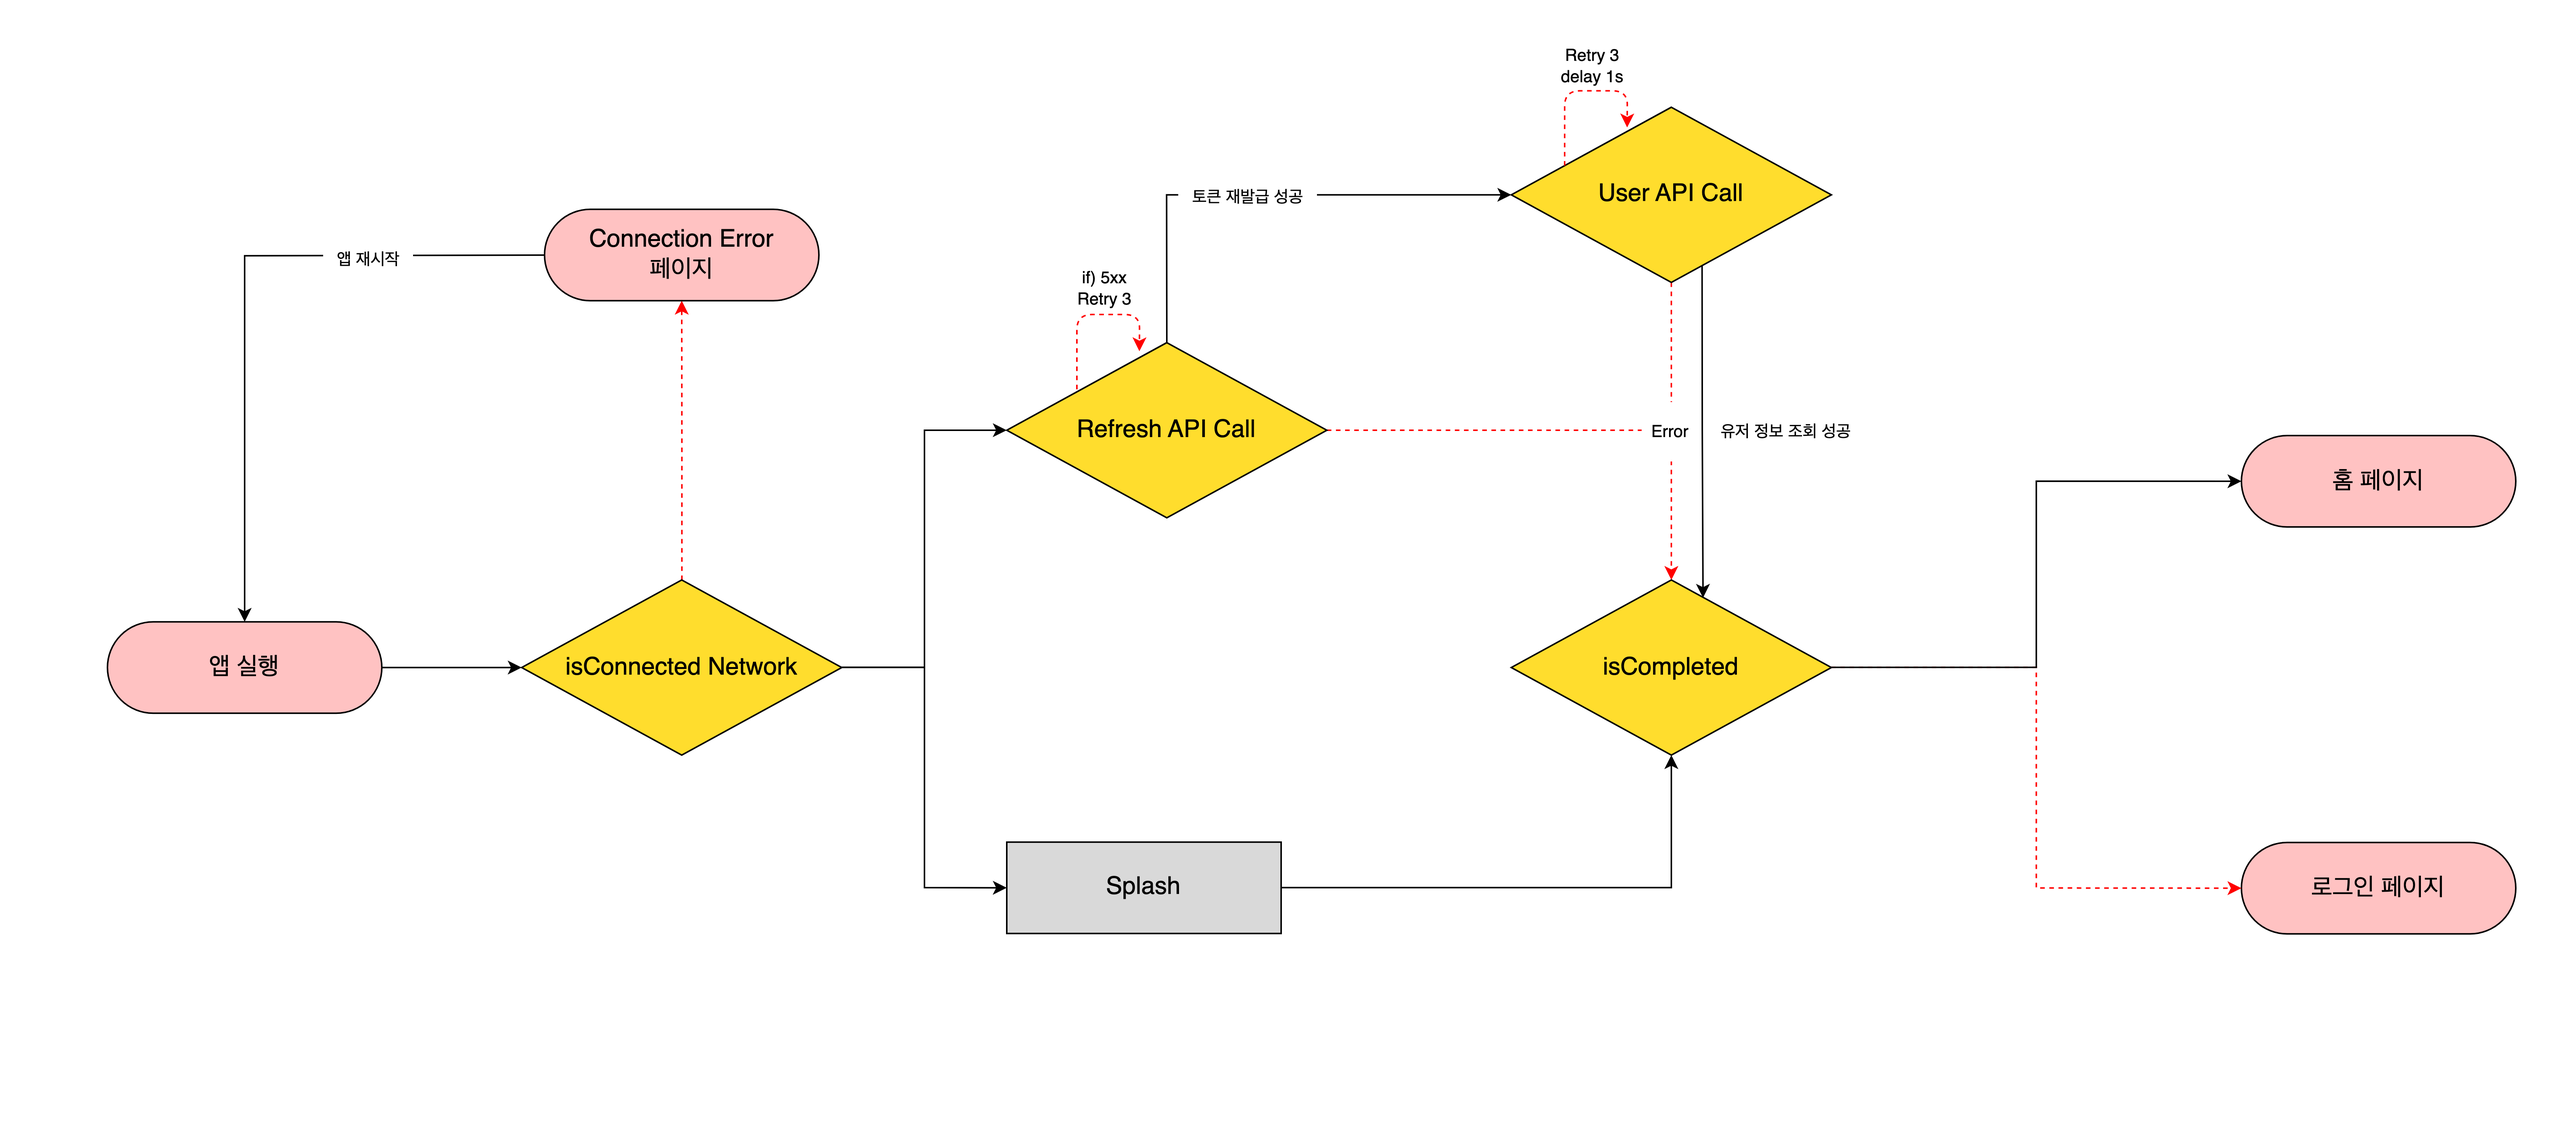
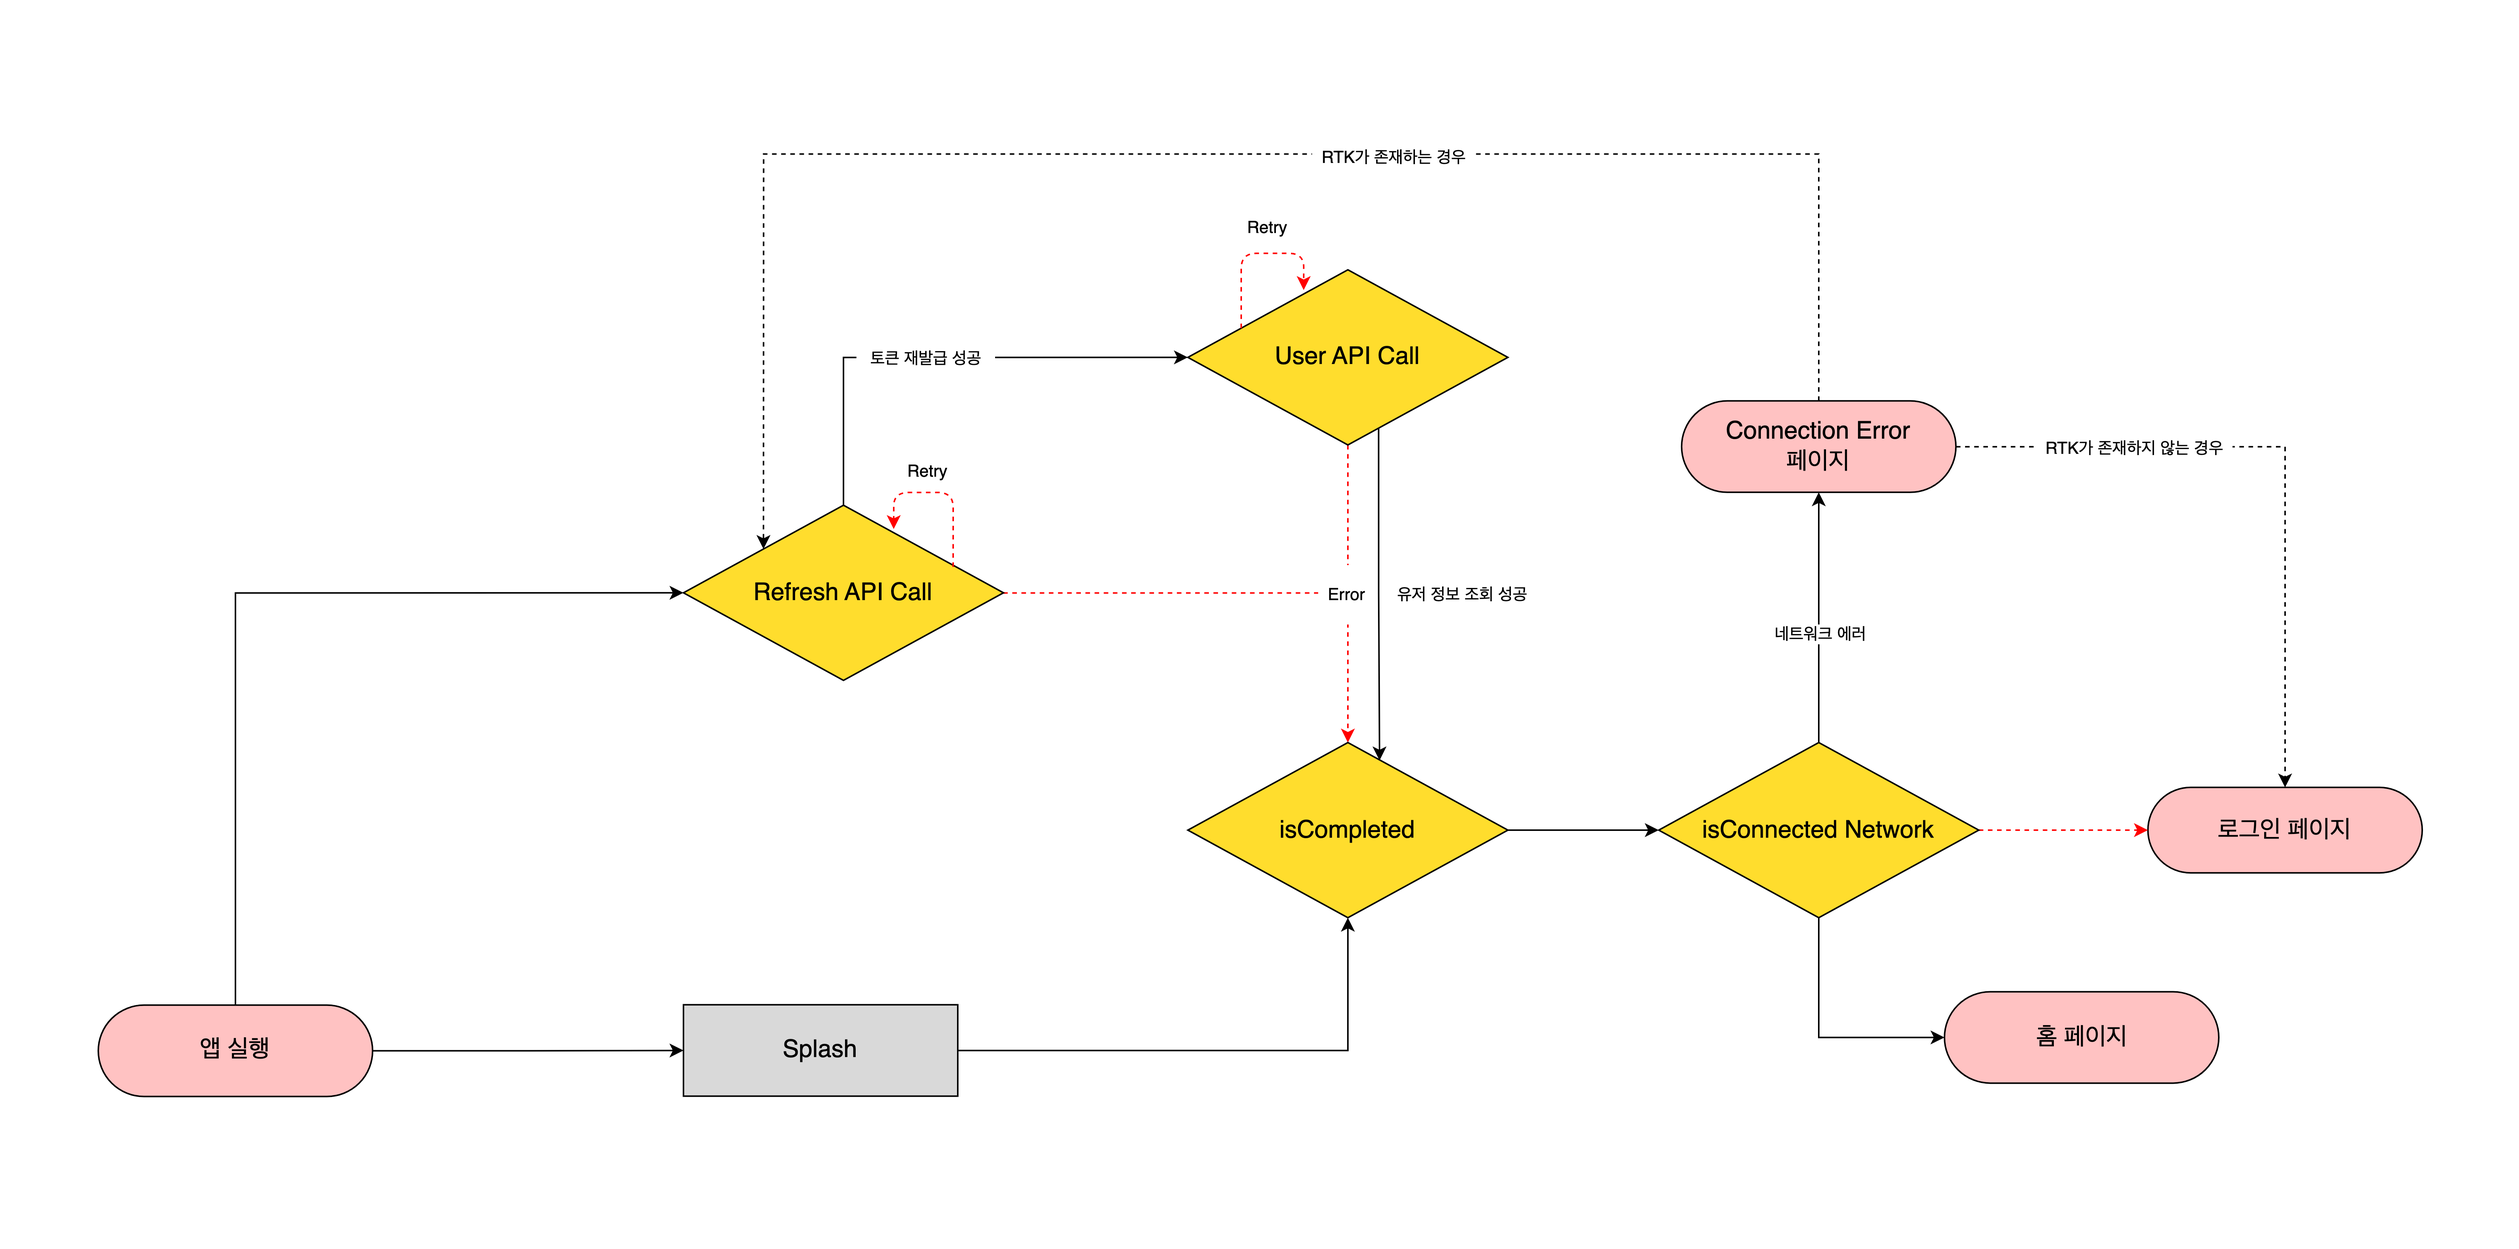
docs: 대안 4 수정

diff --git a/_posts/2025-03-02-handling-network-error-in-splash.md b/_posts/2025-03-02-handling-network-error-in-splash.md
@@ -51,7 +51,7 @@ _기존 플로우_
 1. API 요청 전 네트워크 상태 확인
 2. Queue를 활용한 요청 재시도(Retry)
 3. Retry와 ErrorBoundary를 조합하여 유연하게 처리하기
-4. Network Check and Retry
+4. 점진적 Retry 후 네트워크 상태 확인
 
 이제 각 방법을 하나씩 자세히 살펴보겠습니다.
 
@@ -105,27 +105,20 @@ _세 번째 대안_
 
 이러한 이유로, 로그인 플로우에서 안정성을 보장하기 어렵다고 판단했습니다.
 
-### 3-4. 네트워크 확인 후, Retry를 적용하는 방식
+### 3-4. 점진적 Retry 후 네트워크 상태 확인
 
-마지막 대안은 1번 대안과 3번 대안을 합친 방식입니다.
+마지막 대안은 1번 대안과 3번 대안의 아이디어를 합친 방식입니다.
 
 ![App flow 대안 4](assets/img/writing/15/app_flow_alternative4.png){: width="720" }
-_세 번째 대안_
+_네 번째 대안_
 
-이 방식에서는 1번 대안과 동일하게 앱 실행 시점에서 네트워크 상태를 우선적으로 확인합니다. 네트워크 연결이 정상적이지 않다면, 즉시 ConnectionError 화면을 렌더링하여 사용자에게 네트워크 문제를 인지시킵니다. 반면, 네트워크가 정상이라면 기존 플로우대로 진행하며, 만약 이후 API 호출 과정에서 N/S가 발생할 경우 **재시도(Retry)**를 통해 복구를 시도합니다.
+해당 방법에서는 N/S가 발생하면 `Retry`를 진행합니다. 여기서 중요한 점은 단순히 일정 간격으로 `Retry` 하는 것이 아닌, 재시도 간격을 점진적으로 늘리는 전략을 취해 연결 에러 화면을 보지 않도록, 성공 확률을 높이는 것입니다. 
 
-마지막 대안에서 중요한 점은 단순히 일정한 간격으로 `Retry`하는 것이 아닌, 재시도 간격을 점진적으로 늘리는 전략을 적용하여 성공 확률을 높이도록 하는 것입니다.
+즉, 이번 대안에서는 ✅ <span style="color: #00CA5B;">1초 → 2초 → 4초로 증가하는 방식</span>의 Retry 전략을 고려합니다.
 
-이번 대안에서는 ✅ <span style="color: #00CA5B;">1초 → 2초 → 4초로 증가하는 방식</span>의 Retry 전략을 고려합니다.
+추가로 `Retry` 이후에도 연결되지 않는다면, 토큰 정보는 유지한 채 연결 에러 화면을 렌더링하여 사용자가 네트워크 확인 후 재시도할 수 있도록 유도합니다.
 
-1. 1초 후 1차 재시도
-2. 2초 후 2차 재시도
-3. 4초 후 3차 재시도
-4. 모든 재시도가 실패하면 로그아웃 처리
-
-이 방식은 네트워크가 일시적으로 불안정할 때 너무 빠른 재시도로 서버에 부담을 주는 것을 방지하면서도, 충분한 시도 후에도 실패한다면 로그아웃을 유도하는 방식입니다. 물론 이 방식에도 한계점이 존재합니다! (완벽한 설계는 없으니까요)
-
-네트워크 장애가 장기적으로 지속될 경우 <span style="color: #FF6262;">결국 로그아웃이 발생하므로, 사용자가 재로그인을 쉽게 할 수 있도록 UX를 고려</span>해야 합니다.
+이 방식은 기존 세 번째 대안과 유사해보이지만 ErrorBoundary를 제거함으로써 에러 핸들링을 더욱 단순화하였으며, 네트워크 연결 상태를 마지막에 확인하여 재시도 로직을 명확하게 개선할 수 있습니다.
 
 ### 🚀 3-5. 최종 결론
 
@@ -133,9 +126,27 @@ _세 번째 대안_
 
 | \            | 2⃣ Queue 방식 | 3⃣ Retry & ErrorBoundary | 4⃣ Network Check and Retry |
 |---------------------------|---------------|---------------------------|------------------------------|
-| **N/S 대응**  | ✅ 복구 후 자동 재처리 | ✅ 재시도 및 UI 안내 | ➖ 네트워크 확인 + 점진적 Retry |
-| **안정성**     | ➖ 모든 예외에 대한 대응  | ❌ 리스크 존재 | ✅ 네트워크 확인 후 점진적 재시도로 안정성 확보 |
-| **확장성**     | ❌ Queue 관리의 부담 | ➖ 추가적인 설정이 필요하지만 확장 가능 | ✅ 유지보수 용이하며 확장성 고려 가능 |
-| **구현 난이도** | ❌ Queue 관리 및 Server 복구 처리 | ✅ Retry + ErrorBoundary | ✅ Retry 정책 |
+| **N/S 대응**  | ❌ Queue의 복잡한 예외 처리 문제 | ➖ 재시도 및 UI를 제공하지만 무한 루프 위험 | ✅ 점진적 Retry + 네트워크 확인 |
+| **안정성**     | ➖ `5xx`에 대한 대응이 어려움  | ❌ 무한 루프 위험 | ✅ `Retry` 초과 시 네트워크 확인 후 재시도 |
+| **확장성**     | ❌ Queue 관리의 부담 | ➖ API별로 ErrorBoundary 처리가 필요하지만 확장 가능 | ✅ Queue/ErrorBoundary 없이 N/S 대응이 가능하기에 유지보수가 용이하며 확장성 고려 가능 |
+| **구현 난이도** | ❌ Queue 관리 및 Server 복구 처리 | ➖ Retry + ErrorBoundary | ✅ Retry 정책 |
 
-비교 결과, N/S 대응은 다른 방식에 비해 조금 떨어지지만 안정성과 확장성 측면에서 강점을 가진 대안 4가 가장 적합하다고 판단하였습니다.
+비교 결과, N/S 대응이 가능하며 안정성과 확장성 측면에서 강점을 가진 대안 4가 가장 적합하다고 판단하였습니다.
+
+## 4. 테스트 시나리오 설계와 구현
+
+우선, 우리가 해결해야 할 문제를 테스트 코드로 검증해보자. Jest와 @testing-library/react를 활용하여 다음과 같은 시나리오를 테스트할 것이다.
+
+네트워크 장애 발생 시, refreshToken이 정상적으로 유지되는가?
+
+API 요청이 실패할 경우, 재시도(retry) 로직이 정상적으로 동작하는가?
+
+일정 횟수 이상 재시도해도 실패하면 로그아웃 처리되는가?
+
+이제, 이러한 조건을 테스트 코드로 작성해보자.
+
+```
+테스트코드들!
+```
+
+## 6. 잠깐 UX 개선은!?
